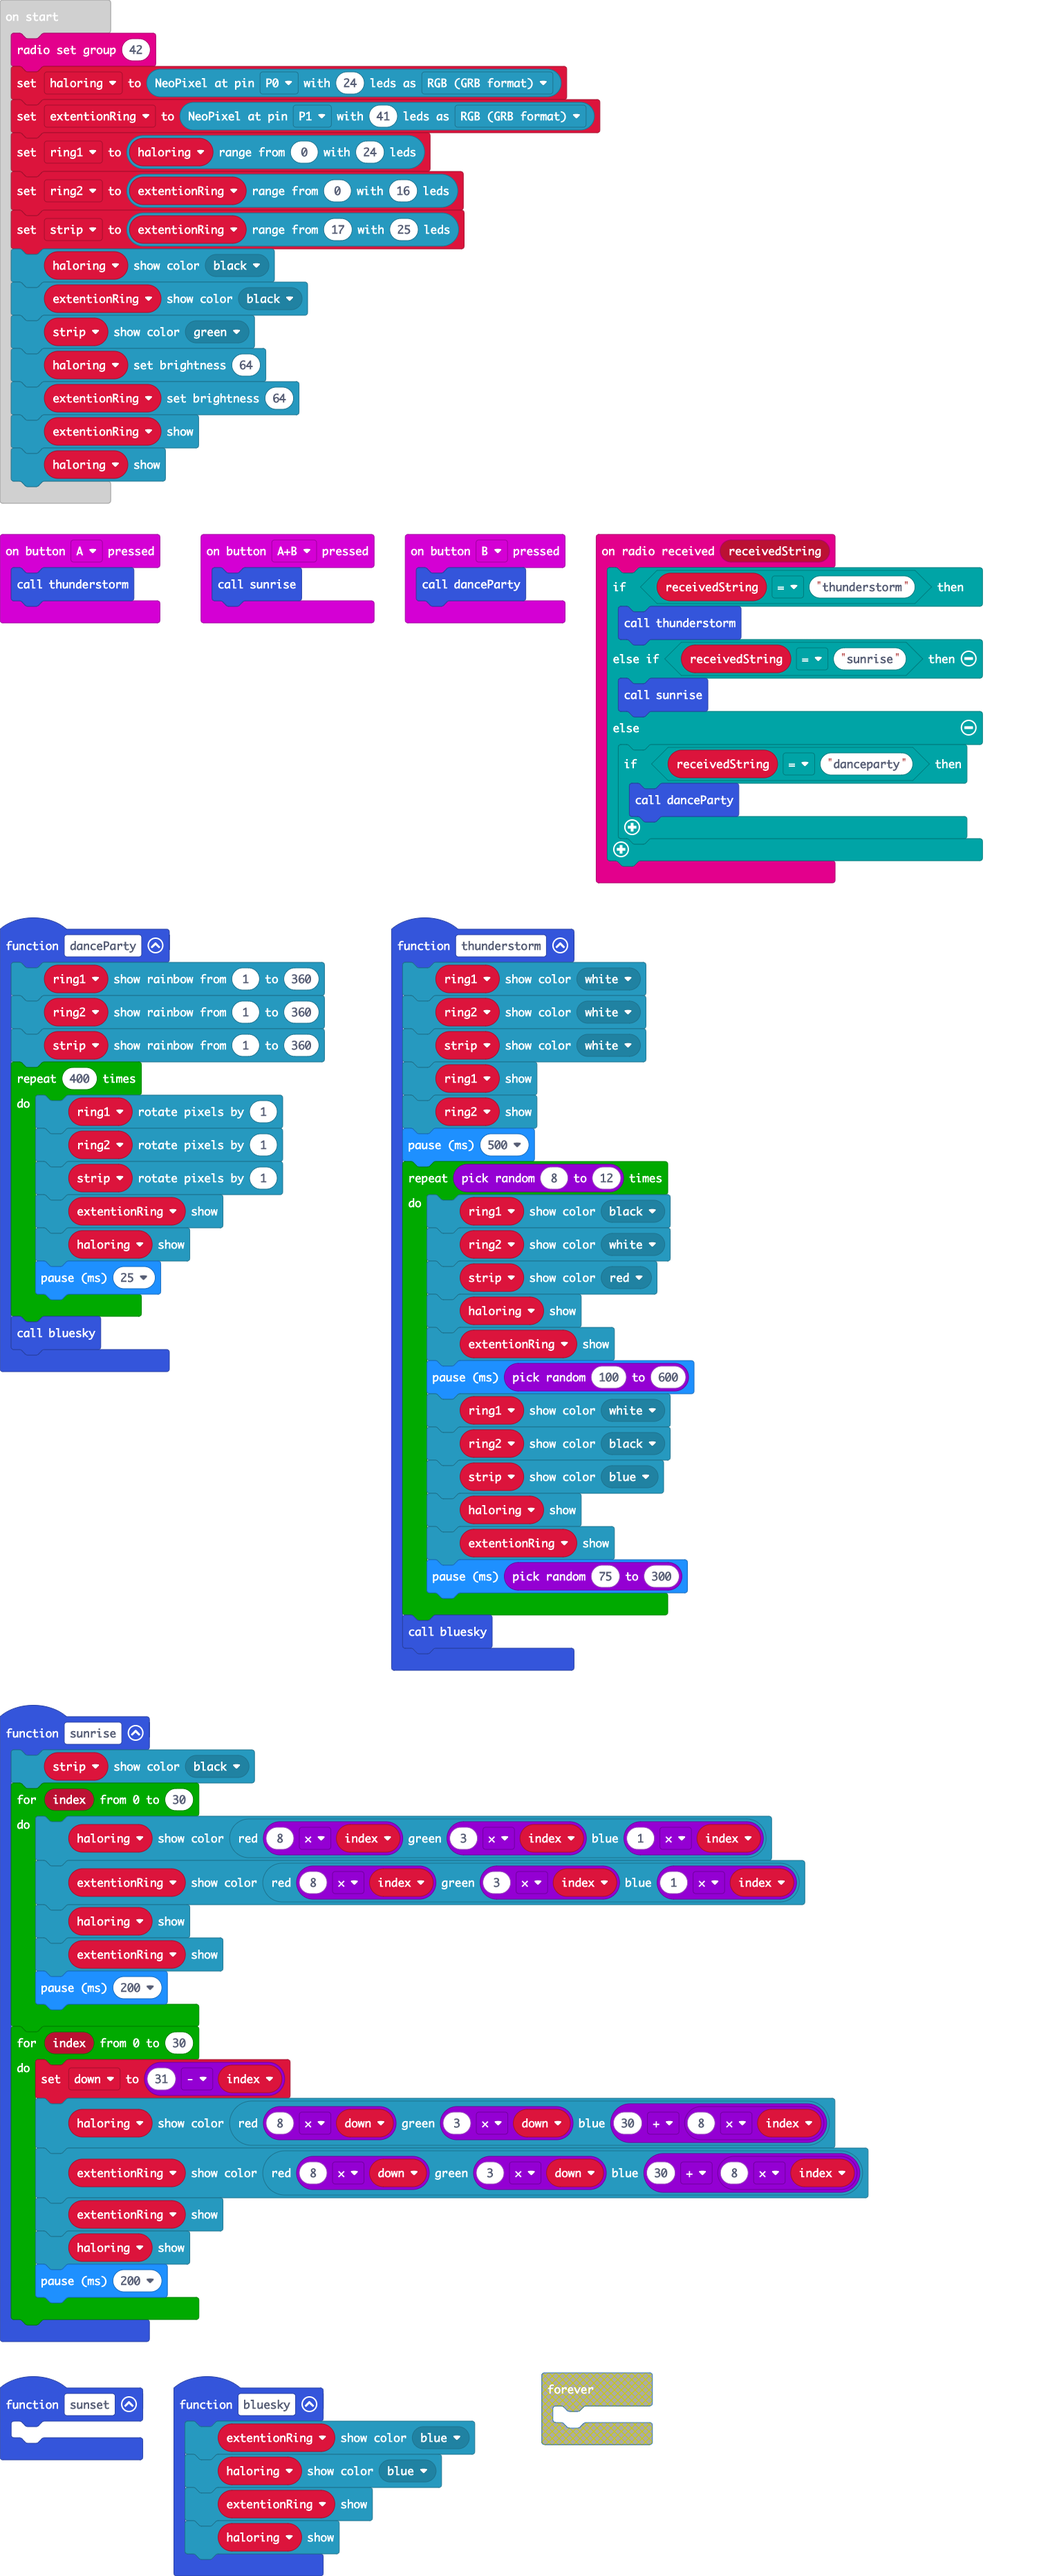
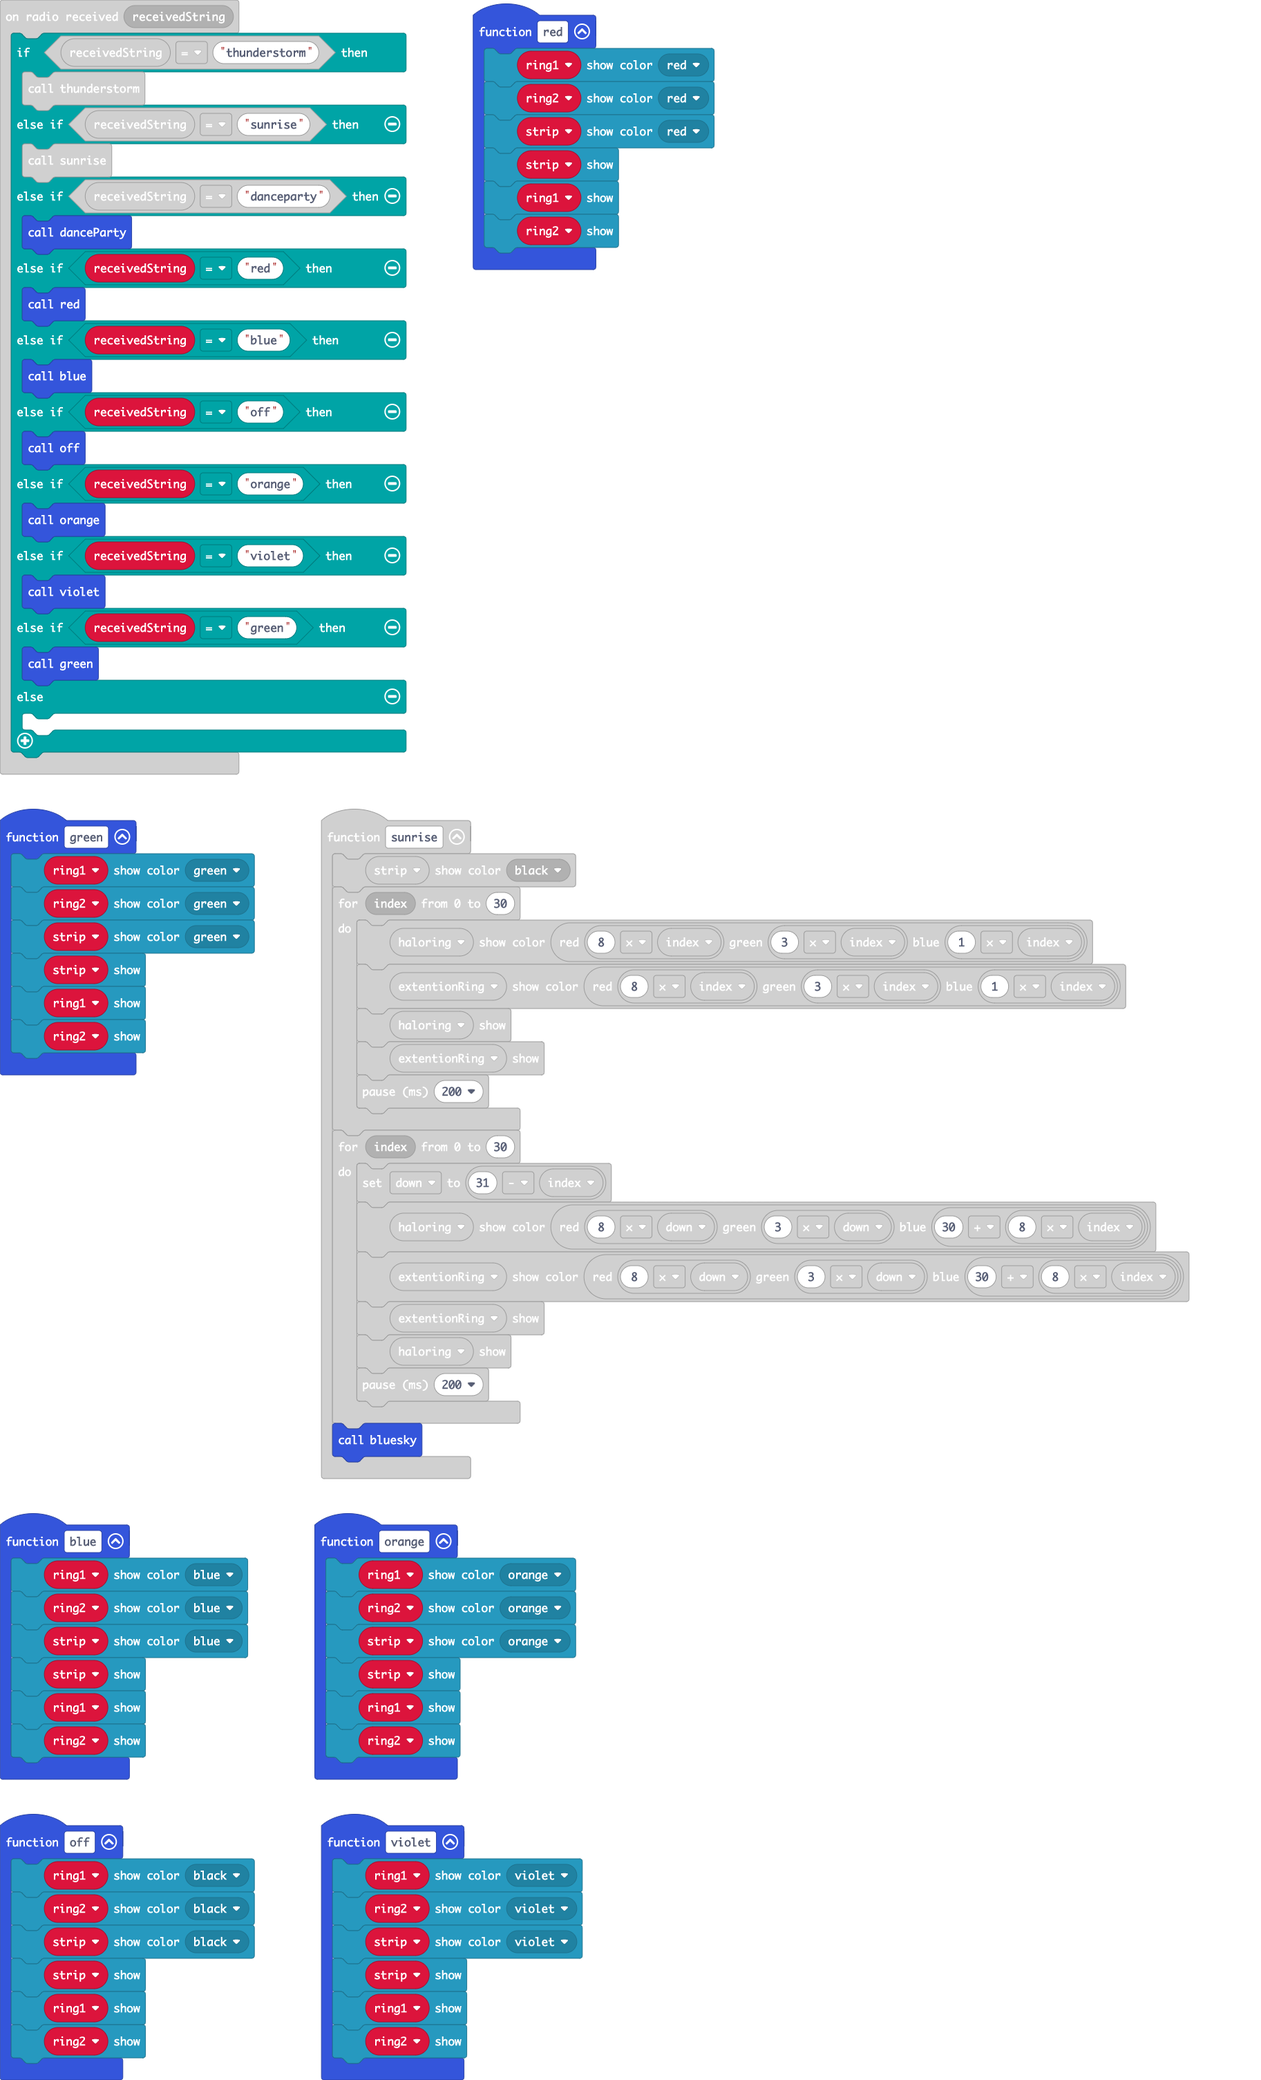
Final V1 of Thundercloud Code

diff --git a/main.ts b/main.ts
@@ -15,6 +15,15 @@ function sunrise () {
         haloring.show()
         basic.pause(200)
     }
+    bluesky()
+}
+function green () {
+    ring1.showColor(neopixel.colors(NeoPixelColors.Green))
+    ring2.showColor(neopixel.colors(NeoPixelColors.Green))
+    strip.showColor(neopixel.colors(NeoPixelColors.Green))
+    strip.show()
+    ring1.show()
+    ring2.show()
 }
 function thunderstorm () {
     ring1.showColor(neopixel.colors(NeoPixelColors.White))
@@ -56,6 +65,14 @@ function danceParty () {
     }
     bluesky()
 }
+function off () {
+    ring1.showColor(neopixel.colors(NeoPixelColors.Black))
+    ring2.showColor(neopixel.colors(NeoPixelColors.Black))
+    strip.showColor(neopixel.colors(NeoPixelColors.Black))
+    strip.show()
+    ring1.show()
+    ring2.show()
+}
 function sunset () {
 	
 }
@@ -67,10 +84,22 @@ radio.onReceivedString(function (receivedString) {
         thunderstorm()
     } else if (receivedString == "sunrise") {
         sunrise()
+    } else if (receivedString == "danceparty") {
+        danceParty()
+    } else if (receivedString == "red") {
+        red()
+    } else if (receivedString == "blue") {
+        blue()
+    } else if (receivedString == "off") {
+        off()
+    } else if (receivedString == "orange") {
+        orange()
+    } else if (receivedString == "violet") {
+        violet()
+    } else if (receivedString == "green") {
+        green()
     } else {
-        if (receivedString == "danceparty") {
-            danceParty()
-        }
+    	
     }
 })
 input.onButtonPressed(Button.B, function () {
@@ -81,6 +110,38 @@ function bluesky () {
     haloring.showColor(neopixel.colors(NeoPixelColors.Blue))
     extentionRing.show()
     haloring.show()
+}
+function orange () {
+    ring1.showColor(neopixel.colors(NeoPixelColors.Orange))
+    ring2.showColor(neopixel.colors(NeoPixelColors.Orange))
+    strip.showColor(neopixel.colors(NeoPixelColors.Orange))
+    strip.show()
+    ring1.show()
+    ring2.show()
+}
+function blue () {
+    ring1.showColor(neopixel.colors(NeoPixelColors.Blue))
+    ring2.showColor(neopixel.colors(NeoPixelColors.Blue))
+    strip.showColor(neopixel.colors(NeoPixelColors.Blue))
+    strip.show()
+    ring1.show()
+    ring2.show()
+}
+function red () {
+    ring1.showColor(neopixel.colors(NeoPixelColors.Red))
+    ring2.showColor(neopixel.colors(NeoPixelColors.Red))
+    strip.showColor(neopixel.colors(NeoPixelColors.Red))
+    strip.show()
+    ring1.show()
+    ring2.show()
+}
+function violet () {
+    ring1.showColor(neopixel.colors(NeoPixelColors.Violet))
+    ring2.showColor(neopixel.colors(NeoPixelColors.Violet))
+    strip.showColor(neopixel.colors(NeoPixelColors.Violet))
+    strip.show()
+    ring1.show()
+    ring2.show()
 }
 let down = 0
 let strip: neopixel.Strip = null
